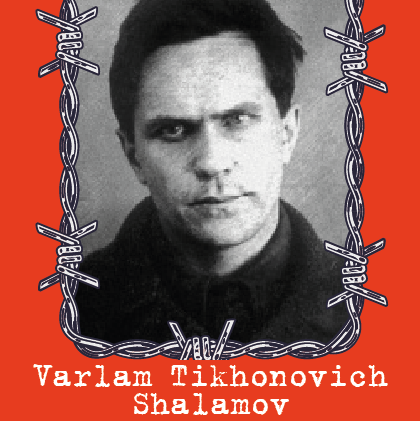
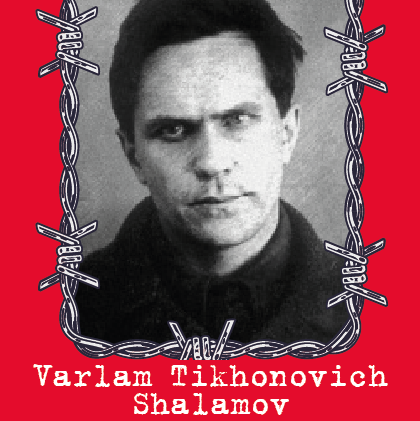
change color

diff --git a/src/data/games/gulagUSSR.js b/src/data/games/gulagUSSR.js
@@ -13,7 +13,7 @@ game.promo = {
 	logo: 'img/games/logos/gulagUSSR_logo.png',
 	status: 1, // 0 - alfa, 1 - beta, 2 - good,
 	shortDescription: '',
-	brandColor: '#E73C20',
+	brandColor: '#E40F2A',
 	id: 'gulag-ussr',
 	price: '',
 	categories: [categoriesGames[1], categoriesGames[2], categoriesGames[5], categoriesGames[6]]
